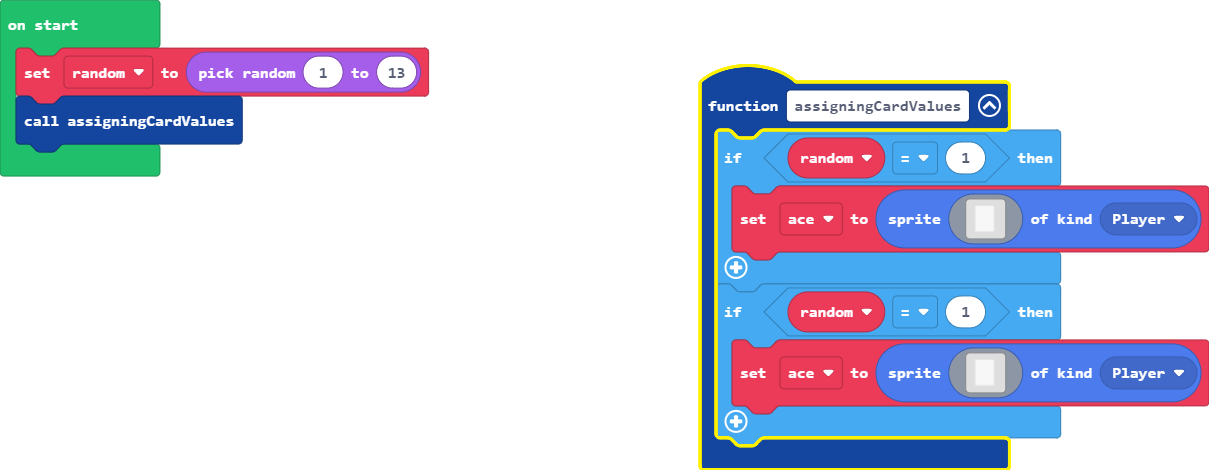
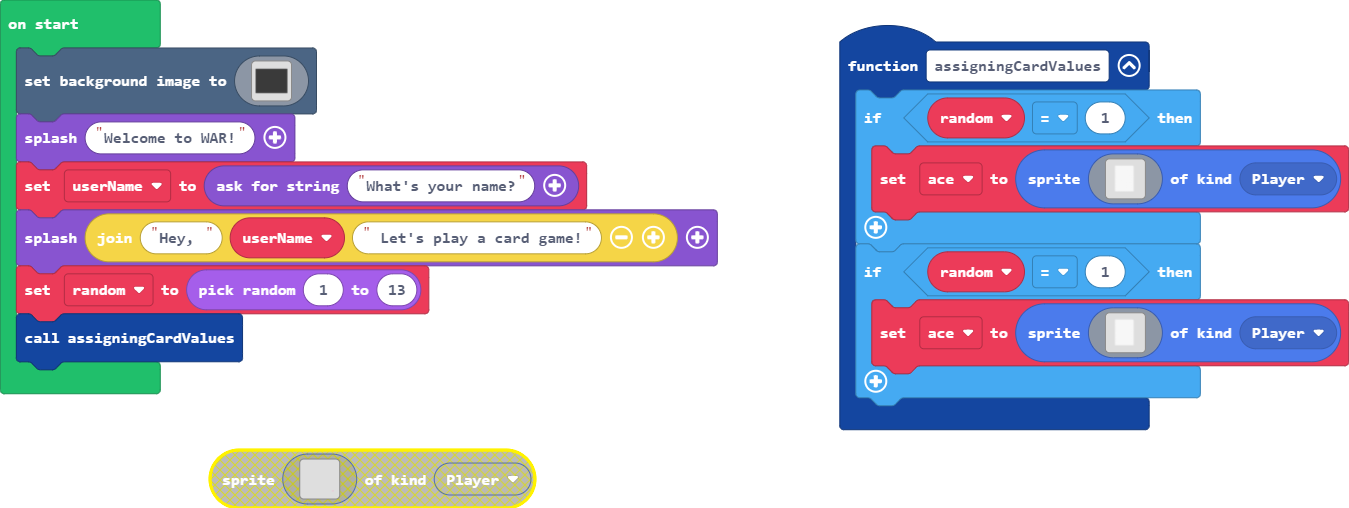
Update main.blocks, main.ts

diff --git a/main.ts b/main.ts
@@ -162,5 +162,130 @@ function assigningCardValues () {
 }
 let ace: Sprite = null
 let random = 0
+scene.setBackgroundImage(img`
+    ffffffffffffffffffffffffffffffffffffffffffffffffffffffffffffffffffffffffffffffffffffffffffffffffffffffffffffffffffffffffffffffffffffffffffffffffffffffffffffffff
+    ffffffffffffffffffffffffffffffffffffffffffffffffffffffffffffffffffffffffffffffffffffffffffffffffffffffffffffffffffffffffffffffffffffffffffffffffffffffffffffffff
+    ffffffffffffffffffffffffffffffffffffffffffffffffffffffffffffffffffffffffffffffffffffffffffffffffffffffffffffffffffffffffffffffffffffffffffffffffffffffffffffffff
+    ffffffffffffffffffffffffffffffffffffffffffffffffffffffffffffffffffffffffffffffffffffffffffffffffffffffffffffffffffffffffffffffffffffffffffffffffffffffffffffffff
+    ffffffffffffffffffffffffffffffffffffffffffffffffffffffffffffffffffffffffffffffffffffffffffffffffffffffffffffffffffffffffffffffffffffffffffffffffffffffffffffffff
+    ffffffffffffffffffffffffffffffffffffffffffffffffffffffffffffffffffffffffffffffffffffffffffffffffffffffffffffffffffffffffffffffffffffffffffffffffffffffffffffffff
+    ffffffffffffffffffffffffffffffffffffffffffffffffffffffffffffffffffffffffffffffffffffffffffffffffffffffffffffffffffffffffffffffffffffffffffffffffffffffffffffffff
+    ffffffffffffffffffffffffffffffffffffffffffffffffffffffffffffffffffffffffffffffffffffffffffffffffffffffffffffffffffffffffffffffffffffffffffffffffffffffffffffffff
+    ffffffffffffffffffffffffffffffffffffffffffffffffffffffffffffffffffffffffffffffffffffffffffffffffffffffffffffffffffffffffffffffffffffffffffffffffffffffffffffffff
+    ffffffffffffffffffffffffffffffffffffffffffffffffffffffffffffffffffffffffffffffffffffffffffffffffffffffffffffffffffffffffffffffffffffffffffffffffffffffffffffffff
+    ffffffffffffffffffffffffffffffffffffffffffffffffffffffffffffffffffffffffffffffffffffffffffffffffffffffffffffffffffffffffffffffffffffffffffffffffffffffffffffffff
+    ffffffffffffffffffffffffffffffffffffffffffffffffffffffffffffffffffffffffffffffffffffffffffffffffffffffffffffffffffffffffffffffffffffffffffffffffffffffffffffffff
+    ffffffffffffffffffffffffffffffffffffffffffffffffffffffffffffffffffffffffffffffffffffffffffffffffffffffffffffffffffffffffffffffffffffffffffffffffffffffffffffffff
+    ffffffffffffffffffffffffffffffffffffffffffffffffffffffffffffffffffffffffffffffffffffffffffffffffffffffffffffffffffffffffffffffffffffffffffffffffffffffffffffffff
+    ffffffffffffffffffffffffffffffffffffffffffffffffffffffffffffffffffffffffffffffffffffffffffffffffffffffffffffffffffffffffffffffffffffffffffffffffffffffffffffffff
+    ffffffffffffffffffffffffffffffffffffffffffffffffffffffffffffffffffffffffffffffffffffffffffffffffffffffffffffffffffffffffffffffffffffffffffffffffffffffffffffffff
+    ffffffffffffffffffffffffffffffffffffffffffffffffffffffffffffffffffffffffffffffffffffffffffffffffffffffffffffffffffffffffffffffffffffffffffffffffffffffffffffffff
+    ffffffffffffffffffffffffffffffffffffffffffffffffffffffffffffffffffffffffffffffffffffffffffffffffffffffffffffffffffffffffffffffffffffffffffffffffffffffffffffffff
+    ffffffffffffffffffffffffffffffffffffffffffffffffffffffffffffffffffffffffffffffffffffffffffffffffffffffffffffffffffffffffffffffffffffffffffffffffffffffffffffffff
+    ffffffffffffffffffffffffffffffffffffffffffffffffffffffffffffffffffffffffffffffffffffffffffffffffffffffffffffffffffffffffffffffffffffffffffffffffffffffffffffffff
+    ffffffffffffffffffffffffffffffffffffffffffffffffffffffffffffffffffffffffffffffffffffffffffffffffffffffffffffffffffffffffffffffffffffffffffffffffffffffffffffffff
+    ffffffffffffffffffffffffffffffffffffffffffffffffffffffffffffffffffffffffffffffffffffffffffffffffffffffffffffffffffffffffffffffffffffffffffffffffffffffffffffffff
+    ffffffffffffffffffffffffffffffffffffffffffffffffffffffffffffffffffffffffffffffffffffffffffffffffffffffffffffffffffffffffffffffffffffffffffffffffffffffffffffffff
+    ffffffffffffffffffffffffffffffffffffffffffffffffffffffffffffffffffffffffffffffffffffffffffffffffffffffffffffffffffffffffffffffffffffffffffffffffffffffffffffffff
+    ffffffffffffffffffffffffffffffffffffffffffffffffffffffffffffffffffffffffffffffffffffffffffffffffffffffffffffffffffffffffffffffffffffffffffffffffffffffffffffffff
+    ffffffffffffffffffffffffffffffffffffffffffffffffffffffffffffffffffffffffffffffffffffffffffffffffffffffffffffffffffffffffffffffffffffffffffffffffffffffffffffffff
+    ffffffffffffffffffffffffffffffffffffffffffffffffffffffffffffffffffffffffffffffffffffffffffffffffffffffffffffffffffffffffffffffffffffffffffffffffffffffffffffffff
+    ffffffffffffffffffffffffffffffffffffffffffffffffffffffffffffffffffffffffffffffffffffffffffffffffffffffffffffffffffffffffffffffffffffffffffffffffffffffffffffffff
+    ffffffffffffffffffffffffffffffffffffffffffffffffffffffffffffffffffffffffffffffffffffffffffffffffffffffffffffffffffffffffffffffffffffffffffffffffffffffffffffffff
+    ffffffffffffffffffffffffffffffffffffffffffffffffffffffffffffffffffffffffffffffffffffffffffffffffffffffffffffffffffffffffffffffffffffffffffffffffffffffffffffffff
+    ffffffffffffffffffffffffffffffffffffffffffffffffffffffffffffffffffffffffffffffffffffffffffffffffffffffffffffffffffffffffffffffffffffffffffffffffffffffffffffffff
+    ffffffffffffffffffffffffffffffffffffffffffffffffffffffffffffffffffffffffffffffffffffffffffffffffffffffffffffffffffffffffffffffffffffffffffffffffffffffffffffffff
+    ffffffffffffffffffffffffffffffffffffffffffffffffffffffffffffffffffffffffffffffffffffffffffffffffffffffffffffffffffffffffffffffffffffffffffffffffffffffffffffffff
+    ffffffffffffffffffffffffffffffffffffffffffffffffffffffffffffffffffffffffffffffffffffffffffffffffffffffffffffffffffffffffffffffffffffffffffffffffffffffffffffffff
+    ffffffffffffffffffffffffffffffffffffffffffffffffffffffffffffffffffffffffffffffffffffffffffffffffffffffffffffffffffffffffffffffffffffffffffffffffffffffffffffffff
+    ffffffffffffffffffffffffffffffffffffffffffffffffffffffffffffffffffffffffffffffffffffffffffffffffffffffffffffffffffffffffffffffffffffffffffffffffffffffffffffffff
+    ffffffffffffffffffffffffffffffffffffffffffffffffffffffffffffffffffffffffffffffffffffffffffffffffffffffffffffffffffffffffffffffffffffffffffffffffffffffffffffffff
+    ffffffffffffffffffffffffffffffffffffffffffffffffffffffffffffffffffffffffffffffffffffffffffffffffffffffffffffffffffffffffffffffffffffffffffffffffffffffffffffffff
+    ffffffffffffffffffffffffffffffffffffffffffffffffffffffffffffffffffffffffffffffffffffffffffffffffffffffffffffffffffffffffffffffffffffffffffffffffffffffffffffffff
+    ffffffffffffffffffffffffffffffffffffffffffffffffffffffffffffffffffffffffffffffffffffffffffffffffffffffffffffffffffffffffffffffffffffffffffffffffffffffffffffffff
+    ffffffffffffffffffffffffffffffffffffffffffffffffffffffffffffffffffffffffffffffffffffffffffffffffffffffffffffffffffffffffffffffffffffffffffffffffffffffffffffffff
+    ffffffffffffffffffffffffffffffffffffffffffffffffffffffffffffffffffffffffffffffffffffffffffffffffffffffffffffffffffffffffffffffffffffffffffffffffffffffffffffffff
+    ffffffffffffffffffffffffffffffffffffffffffffffffffffffffffffffffffffffffffffffffffffffffffffffffffffffffffffffffffffffffffffffffffffffffffffffffffffffffffffffff
+    ffffffffffffffffffffffffffffffffffffffffffffffffffffffffffffffffffffffffffffffffffffffffffffffffffffffffffffffffffffffffffffffffffffffffffffffffffffffffffffffff
+    ffffffffffffffffffffffffffffffffffffffffffffffffffffffffffffffffffffffffffffffffffffffffffffffffffffffffffffffffffffffffffffffffffffffffffffffffffffffffffffffff
+    ffffffffffffffffffffffffffffffffffffffffffffffffffffffffffffffffffffffffffffffffffffffffffffffffffffffffffffffffffffffffffffffffffffffffffffffffffffffffffffffff
+    ffffffffffffffffffffffffffffffffffffffffffffffffffffffffffffffffffffffffffffffffffffffffffffffffffffffffffffffffffffffffffffffffffffffffffffffffffffffffffffffff
+    ffffffffffffffffffffffffffffffffffffffffffffffffffffffffffffffffffffffffffffffffffffffffffffffffffffffffffffffffffffffffffffffffffffffffffffffffffffffffffffffff
+    ffffffffffffffffffffffffffffffffffffffffffffffffffffffffffffffffffffffffffffffffffffffffffffffffffffffffffffffffffffffffffffffffffffffffffffffffffffffffffffffff
+    ffffffffffffffffffffffffffffffffffffffffffffffffffffffffffffffffffffffffffffffffffffffffffffffffffffffffffffffffffffffffffffffffffffffffffffffffffffffffffffffff
+    ffffffffffffffffffffffffffffffffffffffffffffffffffffffffffffffffffffffffffffffffffffffffffffffffffffffffffffffffffffffffffffffffffffffffffffffffffffffffffffffff
+    ffffffffffffffffffffffffffffffffffffffffffffffffffffffffffffffffffffffffffffffffffffffffffffffffffffffffffffffffffffffffffffffffffffffffffffffffffffffffffffffff
+    ffffffffffffffffffffffffffffffffffffffffffffffffffffffffffffffffffffffffffffffffffffffffffffffffffffffffffffffffffffffffffffffffffffffffffffffffffffffffffffffff
+    ffffffffffffffffffffffffffffffffffffffffffffffffffffffffffffffffffffffffffffffffffffffffffffffffffffffffffffffffffffffffffffffffffffffffffffffffffffffffffffffff
+    ffffffffffffffffffffffffffffffffffffffffffffffffffffffffffffffffffffffffffffffffffffffffffffffffffffffffffffffffffffffffffffffffffffffffffffffffffffffffffffffff
+    ffffffffffffffffffffffffffffffffffffffffffffffffffffffffffffffffffffffffffffffffffffffffffffffffffffffffffffffffffffffffffffffffffffffffffffffffffffffffffffffff
+    ffffffffffffffffffffffffffffffffffffffffffffffffffffffffffffffffffffffffffffffffffffffffffffffffffffffffffffffffffffffffffffffffffffffffffffffffffffffffffffffff
+    ffffffffffffffffffffffffffffffffffffffffffffffffffffffffffffffffffffffffffffffffffffffffffffffffffffffffffffffffffffffffffffffffffffffffffffffffffffffffffffffff
+    ffffffffffffffffffffffffffffffffffffffffffffffffffffffffffffffffffffffffffffffffffffffffffffffffffffffffffffffffffffffffffffffffffffffffffffffffffffffffffffffff
+    ffffffffffffffffffffffffffffffffffffffffffffffffffffffffffffffffffffffffffffffffffffffffffffffffffffffffffffffffffffffffffffffffffffffffffffffffffffffffffffffff
+    ffffffffffffffffffffffffffffffffffffffffffffffffffffffffffffffffffffffffffffffffffffffffffffffffffffffffffffffffffffffffffffffffffffffffffffffffffffffffffffffff
+    ffffffffffffffffffffffffffffffffffffffffffffffffffffffffffffffffffffffffffffffffffffffffffffffffffffffffffffffffffffffffffffffffffffffffffffffffffffffffffffffff
+    ffffffffffffffffffffffffffffffffffffffffffffffffffffffffffffffffffffffffffffffffffffffffffffffffffffffffffffffffffffffffffffffffffffffffffffffffffffffffffffffff
+    ffffffffffffffffffffffffffffffffffffffffffffffffffffffffffffffffffffffffffffffffffffffffffffffffffffffffffffffffffffffffffffffffffffffffffffffffffffffffffffffff
+    ffffffffffffffffffffffffffffffffffffffffffffffffffffffffffffffffffffffffffffffffffffffffffffffffffffffffffffffffffffffffffffffffffffffffffffffffffffffffffffffff
+    ffffffffffffffffffffffffffffffffffffffffffffffffffffffffffffffffffffffffffffffffffffffffffffffffffffffffffffffffffffffffffffffffffffffffffffffffffffffffffffffff
+    ffffffffffffffffffffffffffffffffffffffffffffffffffffffffffffffffffffffffffffffffffffffffffffffffffffffffffffffffffffffffffffffffffffffffffffffffffffffffffffffff
+    ffffffffffffffffffffffffffffffffffffffffffffffffffffffffffffffffffffffffffffffffffffffffffffffffffffffffffffffffffffffffffffffffffffffffffffffffffffffffffffffff
+    ffffffffffffffffffffffffffffffffffffffffffffffffffffffffffffffffffffffffffffffffffffffffffffffffffffffffffffffffffffffffffffffffffffffffffffffffffffffffffffffff
+    ffffffffffffffffffffffffffffffffffffffffffffffffffffffffffffffffffffffffffffffffffffffffffffffffffffffffffffffffffffffffffffffffffffffffffffffffffffffffffffffff
+    ffffffffffffffffffffffffffffffffffffffffffffffffffffffffffffffffffffffffffffffffffffffffffffffffffffffffffffffffffffffffffffffffffffffffffffffffffffffffffffffff
+    ffffffffffffffffffffffffffffffffffffffffffffffffffffffffffffffffffffffffffffffffffffffffffffffffffffffffffffffffffffffffffffffffffffffffffffffffffffffffffffffff
+    ffffffffffffffffffffffffffffffffffffffffffffffffffffffffffffffffffffffffffffffffffffffffffffffffffffffffffffffffffffffffffffffffffffffffffffffffffffffffffffffff
+    ffffffffffffffffffffffffffffffffffffffffffffffffffffffffffffffffffffffffffffffffffffffffffffffffffffffffffffffffffffffffffffffffffffffffffffffffffffffffffffffff
+    ffffffffffffffffffffffffffffffffffffffffffffffffffffffffffffffffffffffffffffffffffffffffffffffffffffffffffffffffffffffffffffffffffffffffffffffffffffffffffffffff
+    ffffffffffffffffffffffffffffffffffffffffffffffffffffffffffffffffffffffffffffffffffffffffffffffffffffffffffffffffffffffffffffffffffffffffffffffffffffffffffffffff
+    ffffffffffffffffffffffffffffffffffffffffffffffffffffffffffffffffffffffffffffffffffffffffffffffffffffffffffffffffffffffffffffffffffffffffffffffffffffffffffffffff
+    ffffffffffffffffffffffffffffffffffffffffffffffffffffffffffffffffffffffffffffffffffffffffffffffffffffffffffffffffffffffffffffffffffffffffffffffffffffffffffffffff
+    ffffffffffffffffffffffffffffffffffffffffffffffffffffffffffffffffffffffffffffffffffffffffffffffffffffffffffffffffffffffffffffffffffffffffffffffffffffffffffffffff
+    ffffffffffffffffffffffffffffffffffffffffffffffffffffffffffffffffffffffffffffffffffffffffffffffffffffffffffffffffffffffffffffffffffffffffffffffffffffffffffffffff
+    ffffffffffffffffffffffffffffffffffffffffffffffffffffffffffffffffffffffffffffffffffffffffffffffffffffffffffffffffffffffffffffffffffffffffffffffffffffffffffffffff
+    ffffffffffffffffffffffffffffffffffffffffffffffffffffffffffffffffffffffffffffffffffffffffffffffffffffffffffffffffffffffffffffffffffffffffffffffffffffffffffffffff
+    ffffffffffffffffffffffffffffffffffffffffffffffffffffffffffffffffffffffffffffffffffffffffffffffffffffffffffffffffffffffffffffffffffffffffffffffffffffffffffffffff
+    ffffffffffffffffffffffffffffffffffffffffffffffffffffffffffffffffffffffffffffffffffffffffffffffffffffffffffffffffffffffffffffffffffffffffffffffffffffffffffffffff
+    ffffffffffffffffffffffffffffffffffffffffffffffffffffffffffffffffffffffffffffffffffffffffffffffffffffffffffffffffffffffffffffffffffffffffffffffffffffffffffffffff
+    ffffffffffffffffffffffffffffffffffffffffffffffffffffffffffffffffffffffffffffffffffffffffffffffffffffffffffffffffffffffffffffffffffffffffffffffffffffffffffffffff
+    ffffffffffffffffffffffffffffffffffffffffffffffffffffffffffffffffffffffffffffffffffffffffffffffffffffffffffffffffffffffffffffffffffffffffffffffffffffffffffffffff
+    ffffffffffffffffffffffffffffffffffffffffffffffffffffffffffffffffffffffffffffffffffffffffffffffffffffffffffffffffffffffffffffffffffffffffffffffffffffffffffffffff
+    ffffffffffffffffffffffffffffffffffffffffffffffffffffffffffffffffffffffffffffffffffffffffffffffffffffffffffffffffffffffffffffffffffffffffffffffffffffffffffffffff
+    ffffffffffffffffffffffffffffffffffffffffffffffffffffffffffffffffffffffffffffffffffffffffffffffffffffffffffffffffffffffffffffffffffffffffffffffffffffffffffffffff
+    ffffffffffffffffffffffffffffffffffffffffffffffffffffffffffffffffffffffffffffffffffffffffffffffffffffffffffffffffffffffffffffffffffffffffffffffffffffffffffffffff
+    ffffffffffffffffffffffffffffffffffffffffffffffffffffffffffffffffffffffffffffffffffffffffffffffffffffffffffffffffffffffffffffffffffffffffffffffffffffffffffffffff
+    ffffffffffffffffffffffffffffffffffffffffffffffffffffffffffffffffffffffffffffffffffffffffffffffffffffffffffffffffffffffffffffffffffffffffffffffffffffffffffffffff
+    ffffffffffffffffffffffffffffffffffffffffffffffffffffffffffffffffffffffffffffffffffffffffffffffffffffffffffffffffffffffffffffffffffffffffffffffffffffffffffffffff
+    ffffffffffffffffffffffffffffffffffffffffffffffffffffffffffffffffffffffffffffffffffffffffffffffffffffffffffffffffffffffffffffffffffffffffffffffffffffffffffffffff
+    ffffffffffffffffffffffffffffffffffffffffffffffffffffffffffffffffffffffffffffffffffffffffffffffffffffffffffffffffffffffffffffffffffffffffffffffffffffffffffffffff
+    ffffffffffffffffffffffffffffffffffffffffffffffffffffffffffffffffffffffffffffffffffffffffffffffffffffffffffffffffffffffffffffffffffffffffffffffffffffffffffffffff
+    ffffffffffffffffffffffffffffffffffffffffffffffffffffffffffffffffffffffffffffffffffffffffffffffffffffffffffffffffffffffffffffffffffffffffffffffffffffffffffffffff
+    ffffffffffffffffffffffffffffffffffffffffffffffffffffffffffffffffffffffffffffffffffffffffffffffffffffffffffffffffffffffffffffffffffffffffffffffffffffffffffffffff
+    ffffffffffffffffffffffffffffffffffffffffffffffffffffffffffffffffffffffffffffffffffffffffffffffffffffffffffffffffffffffffffffffffffffffffffffffffffffffffffffffff
+    ffffffffffffffffffffffffffffffffffffffffffffffffffffffffffffffffffffffffffffffffffffffffffffffffffffffffffffffffffffffffffffffffffffffffffffffffffffffffffffffff
+    ffffffffffffffffffffffffffffffffffffffffffffffffffffffffffffffffffffffffffffffffffffffffffffffffffffffffffffffffffffffffffffffffffffffffffffffffffffffffffffffff
+    ffffffffffffffffffffffffffffffffffffffffffffffffffffffffffffffffffffffffffffffffffffffffffffffffffffffffffffffffffffffffffffffffffffffffffffffffffffffffffffffff
+    ffffffffffffffffffffffffffffffffffffffffffffffffffffffffffffffffffffffffffffffffffffffffffffffffffffffffffffffffffffffffffffffffffffffffffffffffffffffffffffffff
+    ffffffffffffffffffffffffffffffffffffffffffffffffffffffffffffffffffffffffffffffffffffffffffffffffffffffffffffffffffffffffffffffffffffffffffffffffffffffffffffffff
+    ffffffffffffffffffffffffffffffffffffffffffffffffffffffffffffffffffffffffffffffffffffffffffffffffffffffffffffffffffffffffffffffffffffffffffffffffffffffffffffffff
+    ffffffffffffffffffffffffffffffffffffffffffffffffffffffffffffffffffffffffffffffffffffffffffffffffffffffffffffffffffffffffffffffffffffffffffffffffffffffffffffffff
+    ffffffffffffffffffffffffffffffffffffffffffffffffffffffffffffffffffffffffffffffffffffffffffffffffffffffffffffffffffffffffffffffffffffffffffffffffffffffffffffffff
+    ffffffffffffffffffffffffffffffffffffffffffffffffffffffffffffffffffffffffffffffffffffffffffffffffffffffffffffffffffffffffffffffffffffffffffffffffffffffffffffffff
+    ffffffffffffffffffffffffffffffffffffffffffffffffffffffffffffffffffffffffffffffffffffffffffffffffffffffffffffffffffffffffffffffffffffffffffffffffffffffffffffffff
+    ffffffffffffffffffffffffffffffffffffffffffffffffffffffffffffffffffffffffffffffffffffffffffffffffffffffffffffffffffffffffffffffffffffffffffffffffffffffffffffffff
+    ffffffffffffffffffffffffffffffffffffffffffffffffffffffffffffffffffffffffffffffffffffffffffffffffffffffffffffffffffffffffffffffffffffffffffffffffffffffffffffffff
+    ffffffffffffffffffffffffffffffffffffffffffffffffffffffffffffffffffffffffffffffffffffffffffffffffffffffffffffffffffffffffffffffffffffffffffffffffffffffffffffffff
+    ffffffffffffffffffffffffffffffffffffffffffffffffffffffffffffffffffffffffffffffffffffffffffffffffffffffffffffffffffffffffffffffffffffffffffffffffffffffffffffffff
+    ffffffffffffffffffffffffffffffffffffffffffffffffffffffffffffffffffffffffffffffffffffffffffffffffffffffffffffffffffffffffffffffffffffffffffffffffffffffffffffffff
+    ffffffffffffffffffffffffffffffffffffffffffffffffffffffffffffffffffffffffffffffffffffffffffffffffffffffffffffffffffffffffffffffffffffffffffffffffffffffffffffffff
+    ffffffffffffffffffffffffffffffffffffffffffffffffffffffffffffffffffffffffffffffffffffffffffffffffffffffffffffffffffffffffffffffffffffffffffffffffffffffffffffffff
+    ffffffffffffffffffffffffffffffffffffffffffffffffffffffffffffffffffffffffffffffffffffffffffffffffffffffffffffffffffffffffffffffffffffffffffffffffffffffffffffffff
+    ffffffffffffffffffffffffffffffffffffffffffffffffffffffffffffffffffffffffffffffffffffffffffffffffffffffffffffffffffffffffffffffffffffffffffffffffffffffffffffffff
+    ffffffffffffffffffffffffffffffffffffffffffffffffffffffffffffffffffffffffffffffffffffffffffffffffffffffffffffffffffffffffffffffffffffffffffffffffffffffffffffffff
+    `)
+game.splash("Welcome to WAR!")
+let userName = game.askForString("What's your name?")
+game.splash("Hey, " + userName + " Let's play a card game!")
 random = randint(1, 13)
 assigningCardValues()
